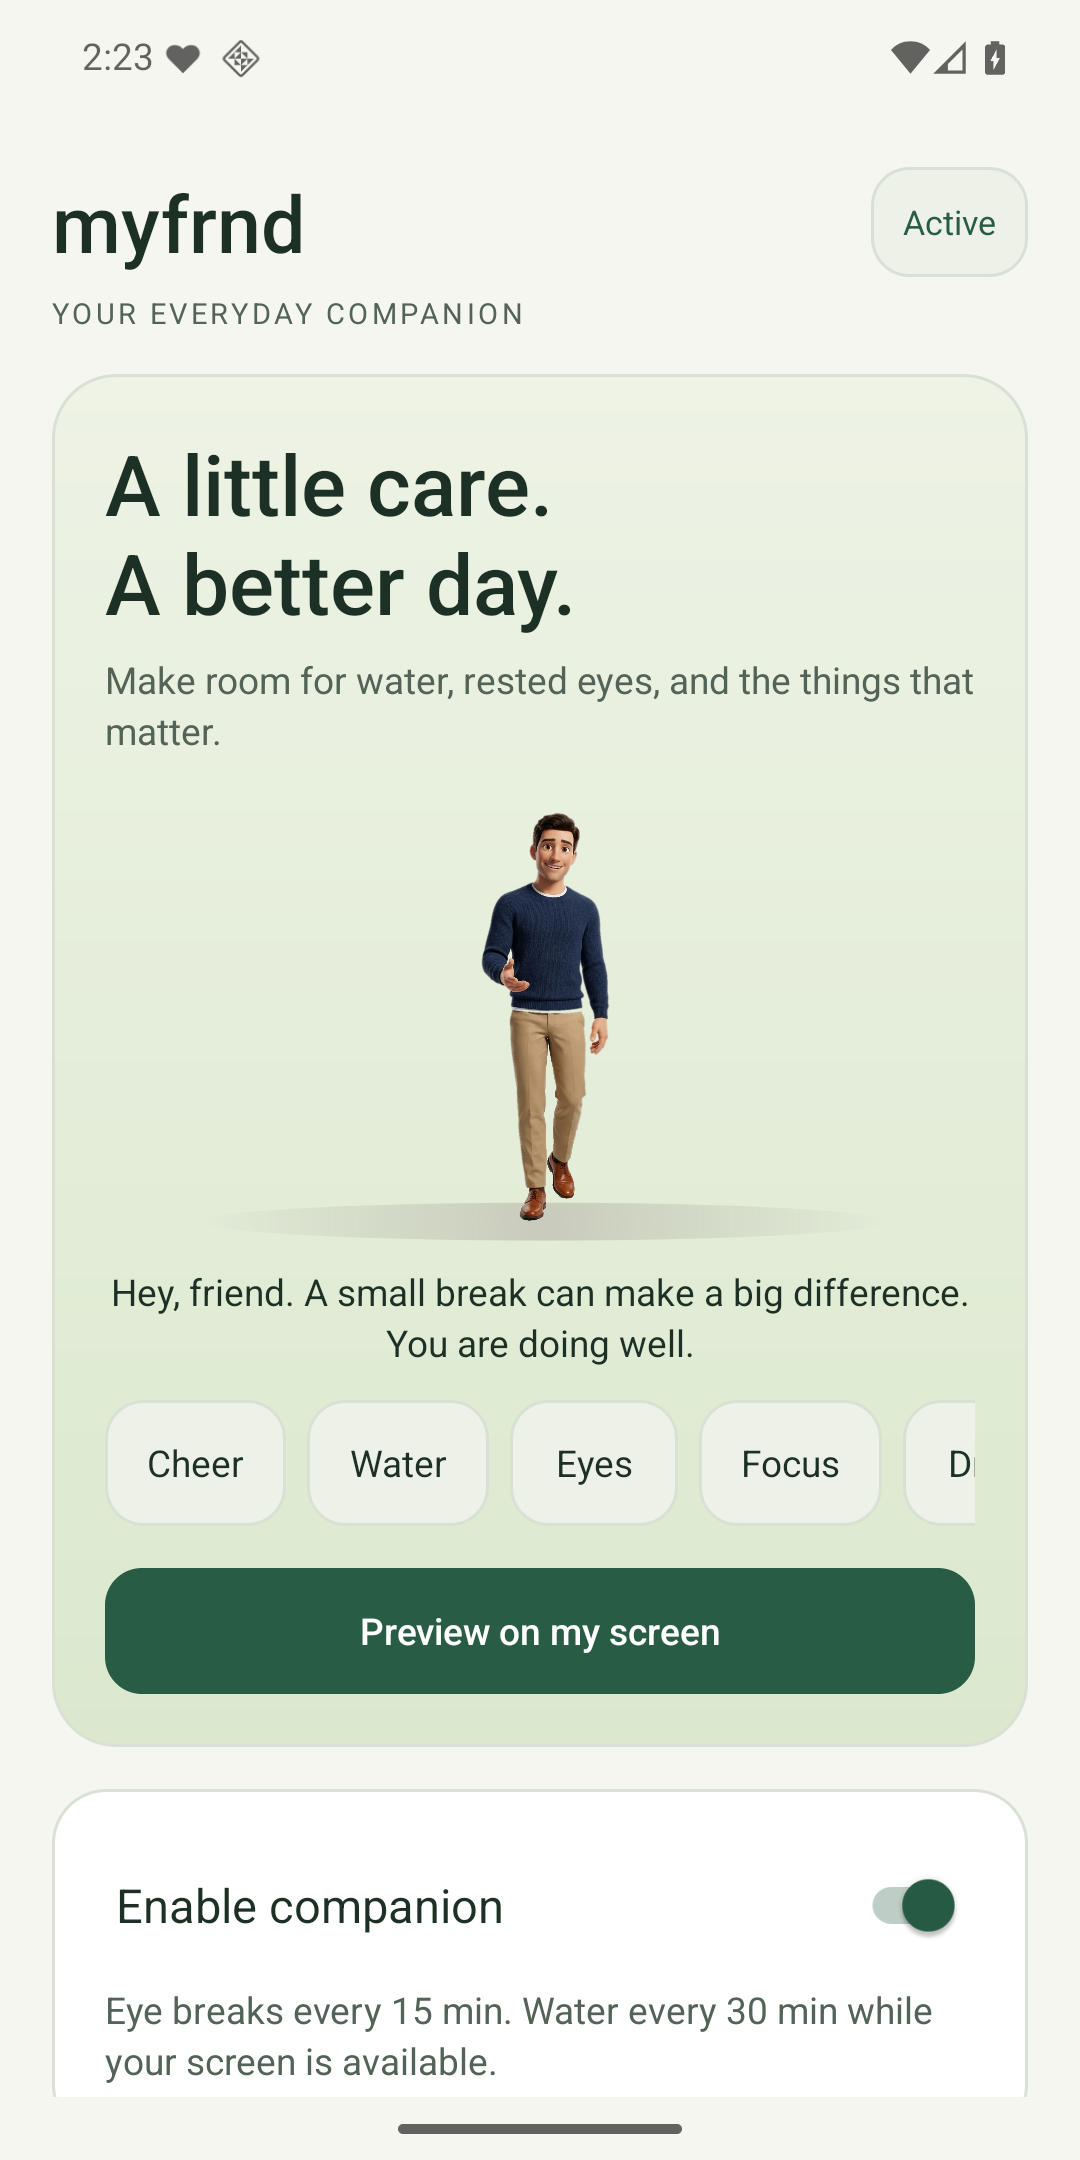
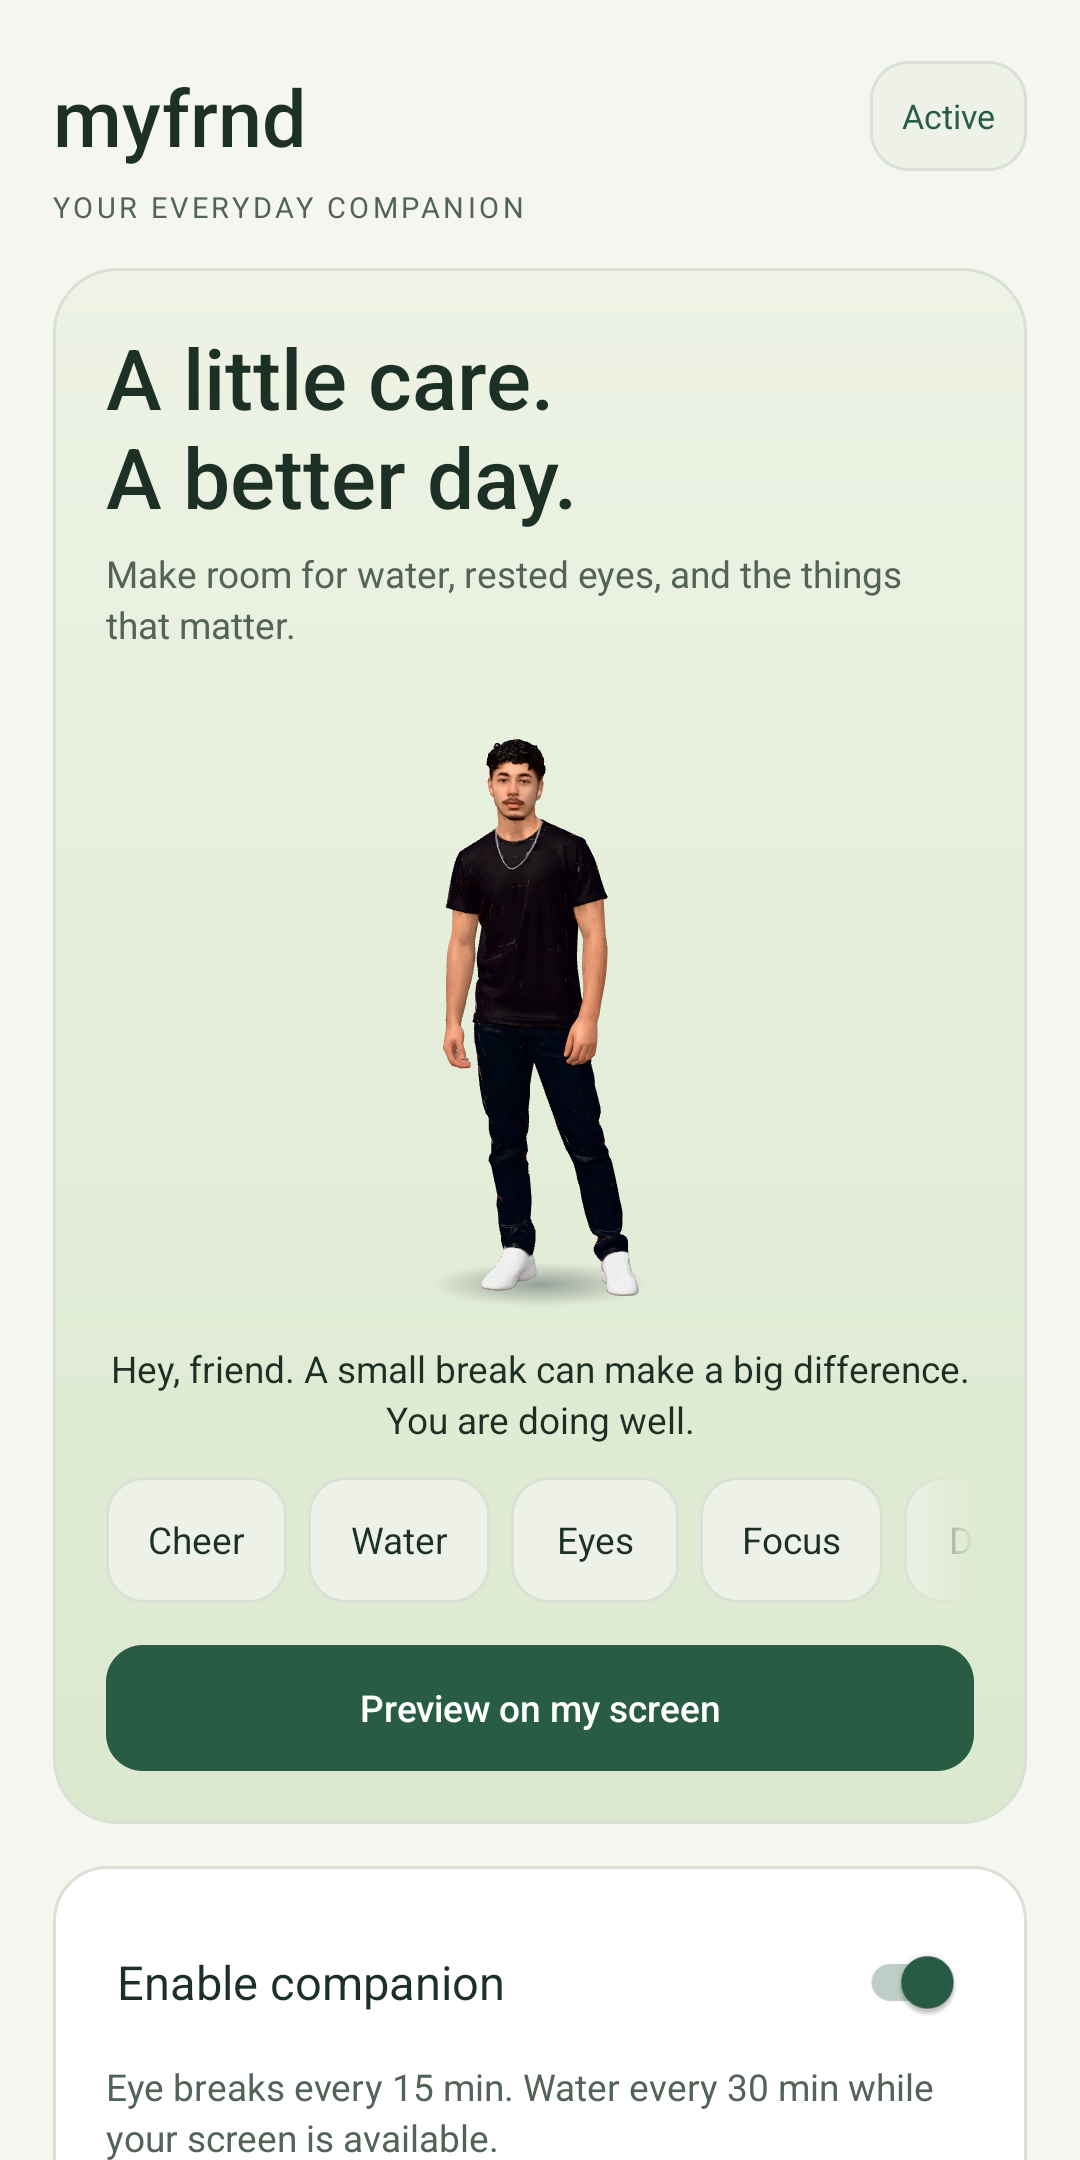
Credit the CC BY 4.0 3D model and refresh store screenshots
The companion model is 'Monochrome Moment' by restore50 (Sketchfab, CC BY 4.0). Show the required credit on the dashboard, document it, and replace the store screenshots that still showed the old 2D character with captures of the 3D release build.

diff --git a/docs/VERIFICATION.md b/docs/VERIFICATION.md
@@ -168,7 +168,7 @@ Five were taken with REA's `capture-adb-screen`. The overlay image is a plain `a
 
 Manual checks also exercised overlay settings, notification denial, live service status, and an animated overlay preview. The 15 text/background colour pairs that the layouts and styles take from the app's own colour resources (`res/values/colors.xml`, `res/values-night/colors.xml`) were computed with the WCAG 2.x relative-luminance formula. All 15 are above AA's 4.5:1 normal-text threshold in both themes. The lowest are 5.00:1 (light) and 5.43:1 (dark), both for secondary text on the darker end of the hero gradient; the next lowest light pair is 5.58:1 (secondary text on a reminder row). This is a calculation on declared colours, not a measurement of rendered pixels. It does not cover non-text contrast, the framework's default dialog background, the date and time pickers, or anything drawn over artwork. It is not a complete accessibility audit or a TalkBack certification. Touch-target sizes were measured on the live release build (1080 x 2400, 420 dpi, font scale 1.0) from the framework's view-hierarchy dump (`dumpsys activity top`, saved in `static-checks/` of the evidence pack and parsed by `tools/touch-targets.py`): all 27 visible clickable views of the dashboard with two reminders listed are at least 48 dp tall and 64 dp wide (the smallest views, including the Edit buttons, are 64.0 x 48.0 dp), and the two permission-card buttons, measured in the first-run state, are 331.4 x 48.0 dp each. These are view bounds at the default font scale; the reminder editor dialog and the date and time pickers were not measured.
 
-The Play Store screenshots in `play_store_assets/` were captured the same way, at 1080 x 2160, from the same release build. The three reminders they show were typed by hand through the app's own editor.
+The Play Store screenshots in `play_store_assets/` were captured the same way, at 1080 x 2160, from the same release build. The three reminders they show were typed by hand through the app's own editor. Screenshots 1, 3 and 6 were later replaced with captures of the iteration 3 release build (test-signed, 1080 x 2400 screen with 120 px cut from the top and bottom), so they show the 3D companion and the model credit; screenshots 2, 4 and 5 show no companion and were kept.
 
 ## Device behaviour checks on the final release build
 
@@ -177,7 +177,7 @@ All of these ran on the Android 16 emulator with the throwaway-signed release bu
 - **Fresh first run, including the Settings round trip.** `pm clear` reset the notification permission but not the overlay app-op, so the app-op was also reset with `appops set ... SYSTEM_ALERT_WINDOW default` to reach a true first-run state. The status pill then read **Setup needed** and the dashboard showed the **Allow display over apps** card. Tapping it opened Android's *Display over other apps* screen. The app passes a `package:` URI (`requestOverlay` in `MainActivity.kt`), but on this emulator image the screen lists every app, so the user has to pick myfrnd and then switch the toggle on. That changed the app-op to `allow`, and after Back the card was gone (`llMandatoryOverlayBanner` GONE in the view hierarchy). The first-ever tap on **Manage notifications** showed the system prompt "Allow myfrnd to send you notifications?"; **Allow** granted it, and **Enable companion** then started the foreground service (`isForeground=true`, id 1001) and the pill read **Active**. Five real frames are in `screenshots/11-first-run-flow.png` of the evidence pack, and the timestamps are in `device-tests/first-run/first-run-run.log`.
   - The log of the whole flow has no `FATAL`, `AndroidRuntime` or ANR line for the app. The app's first frame after clearing its data logged "Skipped 40 frames" and a 711 ms `Davey!` (`TotalTime` 2,793 ms); a second cold start after `force-stop` logged 49 frames, 879 ms and `TotalTime` 1,863 ms. On that second, fresh process, tapping **Preview on my screen** attached the overlay within 1.6 s of the tap command (polled about every 0.9 s) and it stayed 7-9 s. The overlay period contains no `Davey`, skipped-frame, `EGL_BAD`, `freeAllBuffers`, `FATAL` or ANR line; the only two such lines are the launch's first frame, five seconds earlier. So the 1.2 s first-overlay stall seen once in boot test 1 did not recur here.
   - Both cold starts of this test also logged `requestLayout() improperly called by ... dashboardContent during layout: running second layout pass` (a warning, not an error). The view it names is the one whose padding the layout listener at `MainActivity.kt:80-84` sets from inside a layout callback, which is the likely source (the layout file gives that view `20dp` padding, and the listener computes its own pixel value with a truncating conversion). That was inferred from the source and not tested by changing it, its cost was not measured, and the block is byte-identical to the one in the pre-session snapshot, so it was left alone.
-- **Themed launcher icon.** The adaptive icon gained a `<monochrome>` layer (the droplet and check in one colour) and the ten legacy `mipmap-*dpi/ic_launcher*.png` files were removed (`minSdk` 26 always uses the adaptive icon). On the emulator's Pixel Launcher with themed icons switched on, the myfrnd icon on the home screen rendered as the wallpaper-tinted monochrome droplet; it is also visible in `play_store_assets/screenshot_3_hydration.png`. Only the home-screen icon was themed in this check.
+- **Themed launcher icon.** The adaptive icon gained a `<monochrome>` layer (the droplet and check in one colour) and the ten legacy `mipmap-*dpi/ic_launcher*.png` files were removed (`minSdk` 26 always uses the adaptive icon). On the emulator's Pixel Launcher with themed icons switched on, the myfrnd icon on the home screen rendered as the wallpaper-tinted monochrome droplet. Only the home-screen icon was themed in this check.
 - **Reminders typed into the real editor.** Three reminders ("Drink a glass of water", "Evening walk", "Submit assignment") were entered through the app's dialog with the quick-time pills (In 1 hour, Next 8 PM, Tomorrow 9 AM). Each save showed the **Reminder saved.** toast and the list then read **3 upcoming**. The stored due times, read from the app's preferences file (epoch milliseconds in `device-tests/final-state/myfrnd_task_prefs.xml`, decoded in `reminders-decoded.txt` next to it with the device's Asia/Calcutta time), were 03:21:03 (the In 1 hour pill, which keeps the seconds of the moment it was tapped), 20:00:00 (Next 8 PM) and 09:00:00 on the next day (Tomorrow 9 AM).
 - **Boot recovery and delivery after a reboot.** Two tests, each started with `adb reboot` on an emulator that had the companion enabled and the overlay permission granted. In both, the system started the app's process only to run `BootReceiver` (`am_proc_start ... broadcast {com.myfrnd.app/com.wellness.overlay3d.receiver.BootReceiver}`), the special-use foreground service was allowed to start from `BOOT_COMPLETED`, and the ongoing notification (id 1001) was posted.
   - *Test 1, device asleep at the due time.* A reminder due at 02:07:20 came due while the screen was off. The overlay attached 1.25 s after the wake key (delivery requires an interactive, unlocked screen) and the task was then stored as delivered. That first overlay in a process that had never drawn a window logged one 1,211 ms `Davey!` frame and "Skipped 40 frames". The screenshot taken in that run showed a leftover System UI "isn't responding" dialog from the emulator's cold boot, not the overlay, so it is not visual evidence.
@@ -336,7 +336,7 @@ The artifacts are ignored build outputs, not committed binaries. A clean checkou
 1. **Signing ownership:** the original revision exposed signing passwords. The owner must rotate/reset the affected credentials appropriately, configure private signing, and increment the release version. No signing identity was replaced and no history was rewritten.
 2. **Real-device coverage:** every measurement in this report comes from an x86_64 Android 16 emulator. Profile startup, animation, memory and battery on representative physical devices, including low-end hardware, API 26, and OEM battery-management variants.
 3. **Accessibility and speech:** complete TalkBack checks and actual offline TTS playback with the installed engine/voice. Large-text/theme screenshots and contrast calculations are not substitutes. In particular, the two countdown views change their text and spoken description every second while the companion is on (they are not live regions), and how a screen reader treats that was not tested.
-4. **3D companion on real hardware:** iteration 3 brought a 3D companion back deliberately, with the owner's model, Filament 1.75.1 and about 19 MB of native libraries. Iteration 1 had removed an earlier, different renderer because an untracked stock model made the release build draw black polygons and stall the UI; the new renderer was tested on the release build and does neither on the emulator. Still open: **confirm the model's license** for distribution, and measure the first frame (shader compilation took 5–14 s on every emulator cold launch), frame pacing and battery on physical devices, including low-end ones. Filament 1.80.1 exists if an upgrade is wanted. Copies of the iteration 1 files are in `removed-3d/` of the evidence folder.
+4. **3D companion on real hardware:** iteration 3 brought a 3D companion back deliberately, with the owner's model, Filament 1.75.1 and about 19 MB of native libraries. Iteration 1 had removed an earlier, different renderer because an untracked stock model made the release build draw black polygons and stall the UI; the new renderer was tested on the release build and does neither on the emulator. Model license: resolved. The model is ["Monochrome Moment" by restore50](https://sketchfab.com/3d-models/monochrome-moment-5a509fea8432469b94b73a921f742e39) under [CC BY 4.0](https://creativecommons.org/licenses/by/4.0/) (the download's 250,629 triangles match the published 250.6k), which allows commercial distribution with credit; the dashboard footer carries that credit (`model_credit`). Still open: measure the first frame (shader compilation took 5–14 s on every emulator cold launch), frame pacing and battery on physical devices, including low-end ones. Filament 1.80.1 exists if an upgrade is wanted. Copies of the iteration 1 files are in `removed-3d/` of the evidence folder.
 5. **Distribution:** review current Play target-API requirements, the special-use foreground-service declaration and the Data Safety answers; sign, upload, and obtain review with the owner's account. The six store screenshots are now real captures (see `play_store_assets/play_store_metadata.md`); the 512 px store icon and the feature graphic were not changed, and they show different artwork from the launcher icon and the in-app companion. Choose one brand identity before publishing.
 6. **Delivery limitations:** Android can delay or stop background work. Reminders are scheduled inside the foreground service (there is no `AlarmManager` fallback), so a device that kills the service and does not restart it will not deliver them until the app or a reboot restarts it. A plain process kill was recovered by the system on the emulator (see "Process kill while a reminder is pending"); Force Stop, OEM task killers and Doze were not tested. Tasks are one-shot: they are acknowledged on overlay attachment, not user completion, and there is no snooze, completion or repeat. Abrupt process failure is not an exactly-once transaction. Interval countdowns restart in full after process recreation (measured above). This remains a wellness aid, not a medical or emergency alarm.
 7. **Startup tuning:** no app-specific baseline profile was added (the release APK carries only the small AndroidX library profile that the build merges in, `assets/dexopt/baseline.prof`, 1,316 bytes). Forcing full ahead-of-time compilation (the upper bound a profile can reach) gave a 1,643 ms mean cold start (1,251-2,321 ms) against 2,022 ms (1,585-2,312 ms) for the default verify-only install on this emulator, and the ranges overlap. A Macrobenchmark on a physical device is the right way to decide.

diff --git a/play_store_assets/play_store_metadata.md b/play_store_assets/play_store_metadata.md
@@ -107,11 +107,11 @@ All files are in this folder (`play_store_assets/`).
 | :--- | :--- | :--- | :--- |
 | `app_icon_512.png` | 512 x 512 px | PNG, no alpha | **Owner decision, not changed.** The artwork (a 3D character on a white square with rounded corners drawn into the image) differs from the launcher icon (green droplet with a check) and from the in-app companion. Play applies its own corner mask, so a full-bleed square is the safer upload. |
 | `feature_graphic_1024x500.png` | 1024 x 500 px | PNG | **Owner decision, not changed.** It shows a mascot that does not appear in the app. |
-| `screenshot_1_companion.png` | 1080 x 2160 px | 24-bit PNG, no alpha | Real capture: dashboard with the companion hero |
+| `screenshot_1_companion.png` | 1080 x 2160 px | 24-bit PNG, no alpha | Real capture: dashboard with the 3D companion hero |
 | `screenshot_2_eyebreaks.png` | 1080 x 2160 px | 24-bit PNG, no alpha | Real capture: "Your daily rhythm" with the live Water and Eyes countdowns |
-| `screenshot_3_hydration.png` | 1080 x 2160 px | 24-bit PNG, no alpha | Real capture: a Water break reminder the scheduler showed over the home screen. The launcher's own Google app icons are visible behind it; replace it with a neutral-background capture if you prefer |
+| `screenshot_3_hydration.png` | 1080 x 2160 px | 24-bit PNG, no alpha | Real capture: the 3D companion dropping onto the home screen on its thread with a reminder bubble ("Preview on my screen"). The launcher's own Google app icons are visible behind it; replace it with a neutral-background capture if you prefer |
 | `screenshot_4_tasks.png` | 1080 x 2160 px | 24-bit PNG, no alpha | Real capture: "Your reminders" with three upcoming reminders |
 | `screenshot_5_editor.png` | 1080 x 2160 px | 24-bit PNG, no alpha | Real capture: the reminder editor with the quick-time presets |
-| `screenshot_6_privacy.png` | 1080 x 2160 px | 24-bit PNG, no alpha | Real capture: "Make it yours" and the "No account. No ads." footer |
+| `screenshot_6_privacy.png` | 1080 x 2160 px | 24-bit PNG, no alpha | Real capture: "Make it yours", the "No account. No ads." footer and the 3D model credit (CC BY 4.0) |
 
 The six screenshots were captured from the R8-shrunk release build on an Android 16 emulator at 1080 x 2160 (exactly 2:1, the maximum aspect ratio Play accepts), with no text, frame or artwork added. Re-capture them from the release you actually ship. The earlier set were composited mockups (1080 x 2400, with an alpha channel) that showed screens and features the app does not have, and they were replaced.

diff --git a/README.md b/README.md
@@ -81,8 +81,12 @@ The [CI workflow](.github/workflows/android.yml) builds the debug and (unsigned,
 - Increment `versionCode`/`versionName` for an actual store release; this working copy preserves the existing release identity.
 - Validate on physical low-end devices, API 26, OEM battery-management variants, TalkBack, large text, landscape, and an installed offline TTS voice.
 - Test the 3D companion on real phones, especially low-end ones. On the emulator the first frame after a cold start can take 5-14 s because the emulator does not cache compiled GPU shaders; phones normally cache them after the first run, but this is not yet measured. Keep each release's `mapping.txt` (the AAB embeds it for Play Console) so R8-shrunk crash traces can be read.
-- Confirm you have the rights to ship the 3D human model in a store build.
+- The 3D human model is CC BY 4.0 ("Monochrome Moment" by restore50, see [Credits](#credits)): shipping it in a store build is allowed as long as the credit stays in the app. Keep the dashboard credit line, and update it if you swap the model.
 - The six store screenshots in `play_store_assets/` are real captures of the release build. The 512 px store icon and the feature graphic were not changed and show different artwork from the launcher icon and the in-app companion; choose one brand identity before publishing. Review the special-use foreground-service declaration and Data Safety answers, sign with your own key, and obtain Play review. No store approval or deployment has been performed. The work is on the branch `upgrade/production-hardening-20261107` and has not been merged into `main`.
+
+## Credits
+
+- 3D character: ["Monochrome Moment"](https://sketchfab.com/3d-models/monochrome-moment-5a509fea8432469b94b73a921f742e39) by [restore50](https://sketchfab.com/restore50), licensed under [CC BY 4.0](https://creativecommons.org/licenses/by/4.0/). Changes: simplified from about 250,000 to 50,000 triangles, textures re-encoded, and a small Hips/Spine/Chest/Head rig added (see [tools/companion-model](tools/companion-model/README.md)). The same credit is shown at the bottom of the app's dashboard.
 
 ## Research and implementation plan
 

diff --git a/tools/companion-model/README.md b/tools/companion-model/README.md
@@ -8,6 +8,14 @@ The shipped model comes from `monochrome-moment.zip` (file
 `source/Monochrome Moment (3).glb`, 22.8 MB, about 250,000 triangles). That zip is the
 original asset and is **not** committed.
 
+**Source and license:** ["Monochrome Moment"](https://sketchfab.com/3d-models/monochrome-moment-5a509fea8432469b94b73a921f742e39)
+by [restore50](https://sketchfab.com/restore50) on Sketchfab, licensed under
+[CC BY 4.0](https://creativecommons.org/licenses/by/4.0/). The triangle count of the
+download (250,629) matches the published model (250.6k). CC BY 4.0 allows use, changes and
+commercial distribution as long as the author is credited, the license is linked, and the
+changes are mentioned. The app shows this credit at the bottom of the dashboard
+(`model_credit` in `strings.xml`). If you swap in another model, update that credit too.
+
 ## Run it
 
 Needs Node.js 20 or newer.
